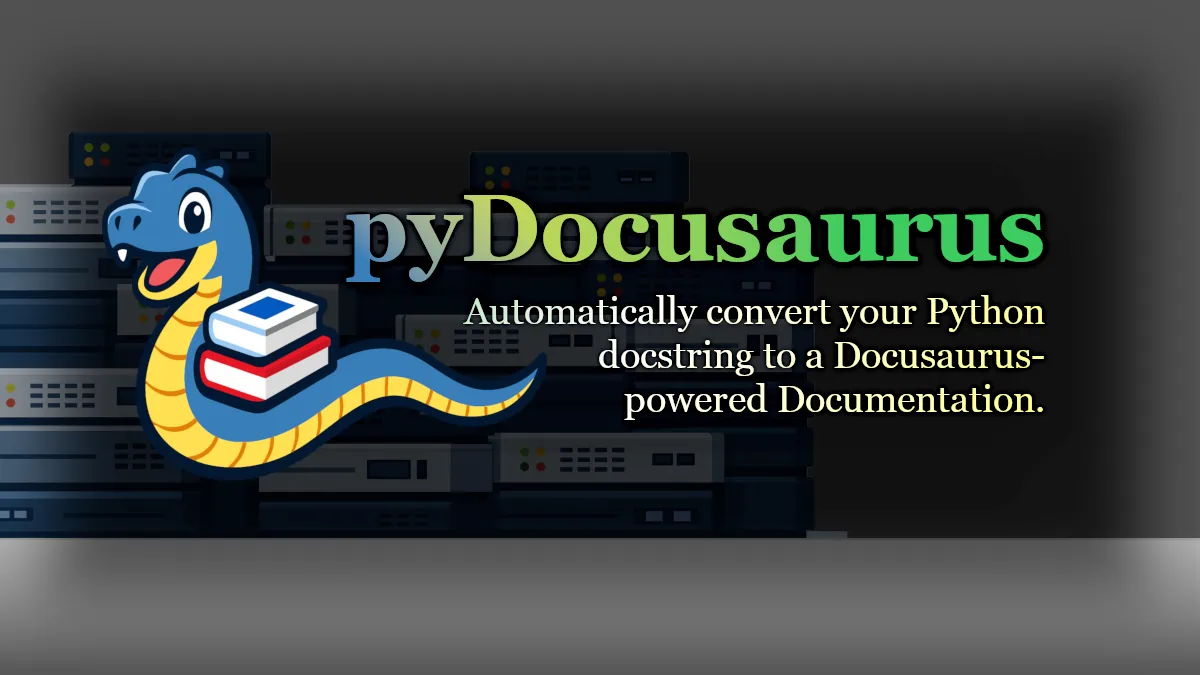
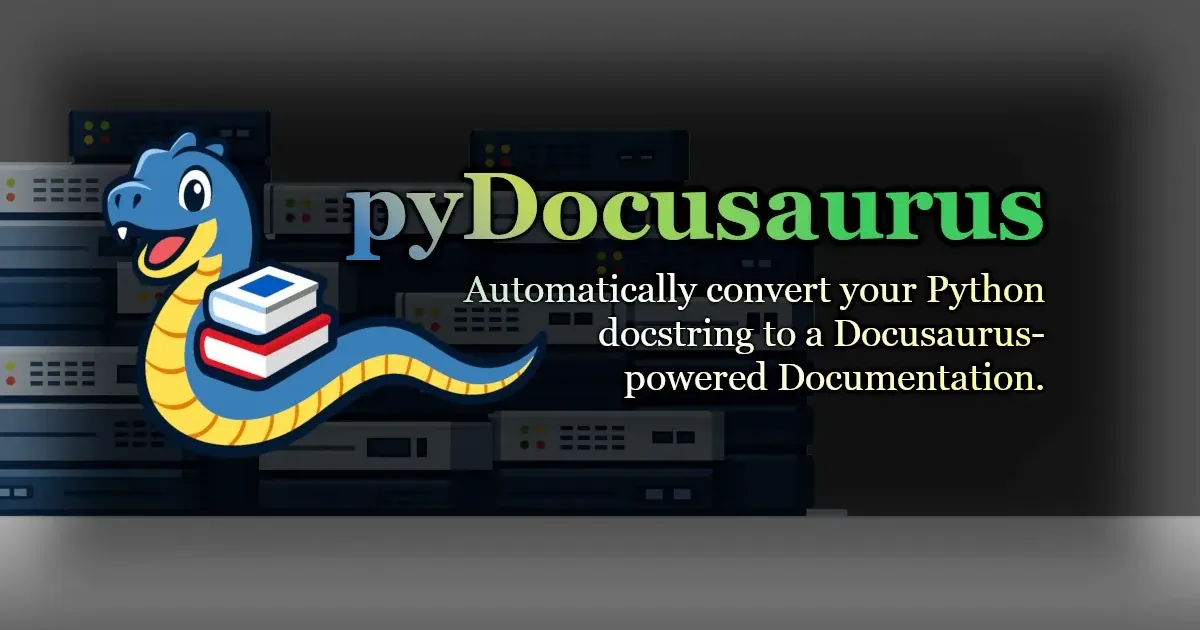
1.0.0 - adjust social metadata Adjust the social metadata. The issue of social image is not fixed in this change because we are waiting the fix facebook/docusaurus#12369.

Changed region(s): [[0.0, 0.181, 1.0, 0.8444], [0.37, 0.4222, 0.8633, 0.4825]]

diff --git a/docusaurus.config.ts b/docusaurus.config.ts
@@ -6,7 +6,8 @@ import type * as Preset from "@docusaurus/preset-classic";
 
 const config: Config = {
   title: "pyDocusaurus",
-  tagline: "Inspired by Sphinx, this tool is designed for generating the Docusaurus Documentation Project from Python Docstrings.",
+  tagline:
+    "Inspired by Sphinx, this tool is designed for generating the Docusaurus Documentation Project from Python Docstrings.",
   favicon: "img/favicon.ico",
 
   // Future flags, see https://docusaurus.io/docs/api/docusaurus-config#future
@@ -55,8 +56,7 @@ const config: Config = {
           sidebarPath: "./sidebars.ts",
           // Please change this to your repo.
           // Remove this to remove the "edit this page" links.
-          editUrl:
-            "https://github.com/cainmagi/pydocusaurus/edit/docs/",
+          editUrl: "https://github.com/cainmagi/pydocusaurus/edit/docs/",
           editLocalizedFiles: true,
           // versions
           lastVersion: "current",
@@ -80,6 +80,7 @@ const config: Config = {
   themeConfig: {
     // Replace with your project's social card
     image: "img/social-card.webp",
+    metadata: [{name: "site_name", content: "pyDocusaurus"}],
     colorMode: {
       respectPrefersColorScheme: true,
     },
@@ -129,7 +130,7 @@ const config: Config = {
           position: "right",
           className: "header-pypi-link",
           "aria-label": "PyPI repository",
-        }
+        },
       ],
     },
     footer: {

diff --git a/Changelog.md b/Changelog.md
@@ -23,3 +23,4 @@
 2. Adjust some highlight codes.
 3. Make `version` module invisible in the API documentation.
 4. Adjust the list of `special-types`.
+5. Adjust the social metadata. The issue of social image is not fixed in this change because we are waiting the fix [facebook/docusaurus#12369](https://github.com/facebook/docusaurus/pull/12369) to be merged.
